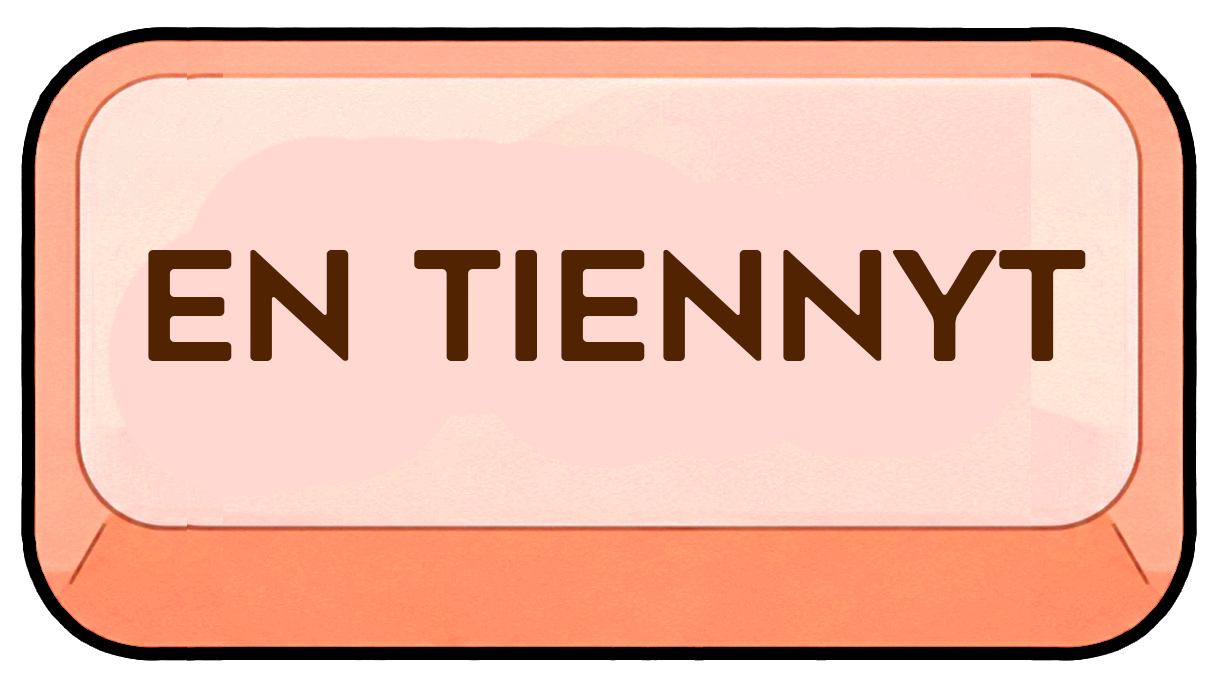
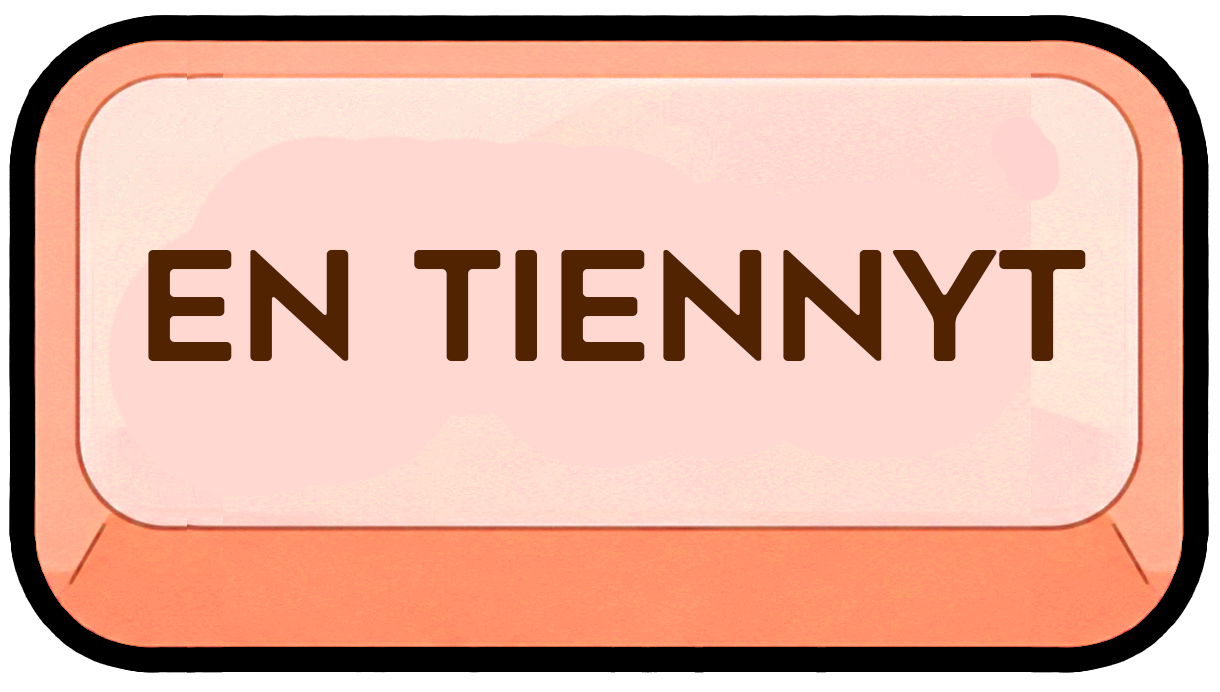
Kertausjono muistiin + uudet nappikuvat + 5 min -maininnat
- "En tiennyt" -kertausjono säilyy sivun uudelleenlatauksen yli
  (localStorage per pakka; poistuu myös Nollaa-napista)
- 5 min -maininta myös yhden vastauksen korteille
- yhtenäinen sanamäärä: "... vastauksen pituus X sanaa"
- osattu/kertaus-luku päivittyy 0,2 s ennen kortin vaihtumista
  (+ suoja tuplaklikkaukselle)
- uudet EDELLINEN/SEURAAVA-nappikuvat (1,76:1 kuten EN TIENNYT/TIESIN)
- napit mahtuvat nyt puhelimen näytölle; badget skaalautuvat

Changed region(s): [[0.0, 0.0, 0.9656, 0.9711], [0.9656, 0.1214, 0.9967, 0.8801]]

diff --git a/index.html b/index.html
@@ -314,7 +314,7 @@ body.is-mobile #card-screen.card-fs-on .card-content { font-size: 1.0125rem; }  
 #front-check { display: none; }
 #card-screen.card-fs-on #front-check.active { display: flex; align-items: flex-end; justify-content: center; gap: min(20px, 3.8vw); position: fixed; left: 50%; bottom: 4vh; transform: translateX(-50%); z-index: 96; max-width: 100vw; }   /* bottoms aligned so all three keycaps sit on the same line; scales down to fit narrow (mobile) screens */
 #card-screen.card-fs-on #progress-row { display: none !important; }   /* the old progress bar is never shown in fullscreen — the Tarkista button takes its place */
-.fc-nav { width: min(75px, 14vw, calc(100dvh / 7)); height: min(75px, 14vw, calc(100dvh / 7)); flex: 0 0 auto; border: none; background: none; padding: 0; cursor: pointer; transition: transform 0.1s ease; position: relative; touch-action: manipulation; }   /* side keycaps, same size as the backside Ei/Kyllä buttons; shrink on narrow screens; manipulation = no iOS tap delay */
+.fc-nav { width: min(132px, 21vw); height: min(75px, 12vw, calc(100dvh / 7)); flex: 0 0 auto; border: none; background: none; padding: 0; cursor: pointer; transition: transform 0.1s ease; position: relative; touch-action: manipulation; }   /* side keycaps, same size as the backside Ei/Kyllä buttons; shrink on narrow screens; manipulation = no iOS tap delay */
 .fc-nav img { width: 100%; height: 100%; object-fit: contain; display: block; filter: drop-shadow(0 3px 8px rgba(0,0,0,0.22)); }
 /* armed (>=125%): pulsing glow — release now to register. Front (Edellinen/Seuraava) = beige on both; back answer buttons = orange (Ei) / sage (Kyllä) */
 #front-check:not(.back) .fc-nav.fc-nav-armed img { animation: fcGlowBeige 0.85s ease-in-out infinite; }
@@ -339,7 +339,7 @@ body.is-mobile #card-screen.card-fs-on .card-content { font-size: 1.0125rem; }  
 #card-screen.card-fs-on button:focus, #card-screen.card-fs-on button:focus-visible { outline: none; }   /* no ugly rectangular Tab-focus box on the keycap buttons */
 .fc-nav:active { transform: translateY(2px) scale(0.95); }
 /* persistent right/wrong tally: a small badge on the grade thumbs, shown only in grade mode (#front-check.back) when the count > 0 */
-.grade-count { position: absolute; bottom: -6px; right: -6px; min-width: 40px; height: 40px; padding: 0 10px; border-radius: 20px; border: 2px solid rgba(0,0,0,0.55); font-family: 'Lora', serif; font-size: 1.48rem; line-height: 36px; text-align: center; color: #fff; box-shadow: 0 1px 5px rgba(0,0,0,0.4); z-index: 3; display: none; pointer-events: auto; cursor: default; }
+.grade-count { --gc: min(40px, 7.2vw); position: absolute; bottom: -6px; right: -6px; min-width: var(--gc); height: var(--gc); padding: 0 calc(var(--gc) / 4); border-radius: calc(var(--gc) / 2); border: 2px solid rgba(0,0,0,0.55); font-family: 'Lora', serif; font-size: calc(var(--gc) * 0.62); line-height: calc(var(--gc) - 4px); text-align: center; color: #fff; box-shadow: 0 1px 5px rgba(0,0,0,0.4); z-index: 3; display: none; pointer-events: auto; cursor: default; }
 #gc-nav-left[data-tip]:hover::after, #gc-nav-right[data-tip]:hover::after { content: attr(data-tip); position: absolute; bottom: calc(100% + 10px); left: 50%; transform: translateX(-50%); background: #3a312b; color: #fff; font-family: 'Lora', serif; font-size: 0.82rem; font-weight: 400; line-height: 1.2; padding: 6px 10px; border-radius: 8px; white-space: nowrap; box-shadow: 0 4px 14px rgba(0,0,0,0.3); z-index: 20; pointer-events: none; }
 #front-check.back #fc-nav-left  .grade-count.has,
 #front-check.back #fc-nav-right .grade-count.has { display: block; }
@@ -350,7 +350,7 @@ body.is-mobile #card-screen.card-fs-on .card-content { font-size: 1.0125rem; }  
 .grade-hint.show { opacity: 1; }
 .tarkista-wrap { position: relative; display: flex; flex-direction: column; align-items: center; }
 .tarkista-btn { position: relative; z-index: 3; display: block; width: auto; border: none; background: none; padding: 0; cursor: pointer; overflow: hidden; touch-action: manipulation; }
-.tarkista-btn img { height: min(75px, 14vw, calc(100dvh / 7)); width: auto; display: block; filter: drop-shadow(0 4px 10px rgba(0,0,0,0.3)); }   /* as tall as the backside Ei/Kyllä buttons; shrink on narrow screens */
+.tarkista-btn img { height: min(75px, 12vw, calc(100dvh / 7)); width: auto; display: block; filter: drop-shadow(0 4px 10px rgba(0,0,0,0.3)); }   /* as tall as the backside Ei/Kyllä buttons; shrink on narrow screens */
 .tarkista-btn .tk-back { display: none; }   /* front = TARKISTA; back = TIESITKÖ? */
 #front-check.back .tarkista-btn .tk-front { display: none; }
 #front-check.back .tarkista-btn .tk-back { display: block; }
@@ -1258,7 +1258,6 @@ body.dark-mode .cal-day.cal-today .cal-num { background:#5c8a6a; color:#fff; }
 .chat-wrap { display:flex; flex-direction:column; }
 .chat-body { min-height:0; max-height:62vh; overflow-y:auto; display:flex; flex-direction:column; justify-content:flex-end; padding-right:6px; }   /* greeting + messages sit just above the input */
 .chat-greet-row { display:flex; align-items:flex-end; justify-content:flex-start; gap:8px; margin:6px 0 14px; }
-#front-check.back .fc-nav { width: min(132px, 26vw) !important; }   /* grade state: widen the side buttons to fit the 1.8:1 En tiennyt / Tiesin images */
 .add-info-wrap { display:flex; flex-direction:column; align-items:center; }
 .add-info-bubble { position:relative; background:#fffef9; border:2px solid #d4cec4; border-radius:22px; padding:1rem 1.3rem; color:#56533c; box-shadow:0 6px 20px rgba(0,0,0,0.12); text-align:left; font-size:1.0rem; line-height:1.4; }
 .add-info-bubble::after { content:""; position:absolute; top:100%; left:50%; transform:translateX(-50%); border:14px solid transparent; border-top-color:#fffef9; margin-top:-2px; }
@@ -2509,16 +2508,16 @@ body.dark-mode .cal-ev { color:#241f1b; }
 
   <!-- fullscreen front: [Edellinen] [Tarkista button = progress fill + peeking Mona] [Seuraava] -->
   <div id="front-check">
-    <button class="fc-nav" id="fc-nav-left" onclick="frontNavLeft()" onmouseenter="showGradeHint(event,'En tiennyt')" onmousemove="moveGradeHint(event)" onmouseleave="hideGradeHint()"><img class="nav-front" src="edellinen.png" alt="Edellinen"><img class="nav-back" src="en_tiennyt.png" alt="En tiennyt"><span class="grade-count" id="gc-nav-left" onmouseenter="hideGradeHint()" onmousemove="event.stopPropagation();hideGradeHint()"></span></button>
+    <button class="fc-nav" id="fc-nav-left" onclick="frontNavLeft()" onmouseenter="showGradeHint(event,'pikanäppäin: vasen nuoli')" onmousemove="moveGradeHint(event)" onmouseleave="hideGradeHint()"><img class="nav-front" src="edellinen_new.png" alt="Edellinen"><img class="nav-back" src="en_tiennyt.png" alt="En tiennyt"><span class="grade-count" id="gc-nav-left" onmouseenter="hideGradeHint()" onmousemove="event.stopPropagation();hideGradeHint()"></span></button>
     <div class="tarkista-wrap">
       <div class="fc-bubble" id="fc-bubble"></div>
-      <button id="tarkista-btn" class="tarkista-btn" onclick="frontCheckReveal()" title="Tarkista (välilyönti)">
+      <button id="tarkista-btn" class="tarkista-btn" onclick="_revealedByKey=false;frontCheckReveal()" onmouseenter="showTarkistaHint(event)" onmousemove="moveGradeHint(event)" onmouseleave="hideGradeHint()">
         <img class="tk-front" src="tarkista_vastaus.png" alt="Tarkista vastaus">
         <img class="tk-back" src="tarkista_vastaus.png" alt="Tarkista vastaus">
         <div class="tarkista-fill" id="tarkista-fill"></div>
       </button>
     </div>
-    <button class="fc-nav" id="fc-nav-right" onclick="frontNavRight()" onmouseenter="showGradeHint(event,'Tiesin')" onmousemove="moveGradeHint(event)" onmouseleave="hideGradeHint()"><img class="nav-front" src="seuraava.png" alt="Seuraava"><img class="nav-back" src="tiesin.png" alt="Tiesin"><span class="grade-count" id="gc-nav-right" onmouseenter="hideGradeHint()" onmousemove="event.stopPropagation();hideGradeHint()"></span></button>
+    <button class="fc-nav" id="fc-nav-right" onclick="frontNavRight()" onmouseenter="showGradeHint(event,'pikanäppäin: oikea nuoli')" onmousemove="moveGradeHint(event)" onmouseleave="hideGradeHint()"><img class="nav-front" src="seuraava_new.png" alt="Seuraava"><img class="nav-back" src="tiesin.png" alt="Tiesin"><span class="grade-count" id="gc-nav-right" onmouseenter="hideGradeHint()" onmousemove="event.stopPropagation();hideGradeHint()"></span></button>
   </div>
   <div id="grade-hint" class="grade-hint"></div>
 
@@ -2613,6 +2612,19 @@ let groups = JSON.parse(localStorage.getItem('anki-groups') || JSON.stringify([
 ]));
 let groupMode = false;
 let queue=[];
+let _relearn=[];            // cards graded "En tiennyt": [{card, at}] — asked again once 5 min have passed
+const RELEARN_MS=5*60*1000;
+let _gradePending=false;    // a grade is showing its tally; ignore further clicks until the next card is up
+function _saveRelearn(){    // survives a reload: store card ids + due times, not the card objects
+  try{ localStorage.setItem('solukko-relearn-'+currentDeck, JSON.stringify(_relearn.map(e=>({id:e.card.cardId, at:e.at})))); }catch(e){}
+}
+function _loadRelearn(deckName){
+  _relearn=[];
+  try{
+    const raw=localStorage.getItem('solukko-relearn-'+deckName); if(!raw) return;
+    JSON.parse(raw).forEach(e=>{ const c=reviewCards.find(x=>String(x.cardId)===String(e.id)); if(c) _relearn.push({card:c, at:e.at}); });   // cards that no longer exist are dropped
+  }catch(e){ _relearn=[]; }
+}
 let reviewCards=[];
 let currentOverviewIndex=0;
 let cardGrades={};
@@ -2623,7 +2635,8 @@ let cardAnswerShown=false;
 let commentsUnsubscribe=null;
 let kuvaajatUnsubscribe=null;
 let _frontHintText='';   // "Vastauksen laajuus … · Klikkaa korttia" — shown in Mona's front bubble
-let _scopeText='';       // "Vastauksen laajuus … sanaa" — shown in the bottom-right study Mona's bubble
+let _scopeText='';
+let _revealedByKey=false;   // true only when the answer was revealed/toggled with the space bar (Mona then says "uudestaan")       // "Vastauksen laajuus … sanaa" — shown in the bottom-right study Mona's bubble
 
 
 // ════════════════════════════════════════════════════════════
@@ -3683,7 +3696,7 @@ async function startDeck(deckName, animate=true){   // animate=false (reload/dee
   if(!infos.length){ alert('Tässä pakassa ei ole kortteja.'); show('deck-screen'); hide('loading'); return; }
   _deckIntro = infos.find(c=>getField(c,['Front','front','Kysymys','kysymys','Question','question']).replace(/<[^>]*>/g,'').trim().toLowerCase()==='esittely') || null;   // the card whose Front/Kysymys is "Esittely" becomes the deck cover
   reviewCards = _deckIntro ? infos.filter(c=>c!==_deckIntro) : infos;   // the intro card is a cover, not a study card
-  queue = reviewCards.slice();
+  queue = reviewCards.slice(); _loadRelearn(deckName);   // pick up cards still waiting to be re-asked from an earlier session
   shuffleMode=false; _reviewCardsOriginal=null; document.getElementById('shuffle-btn')?.classList.remove('active'); updateShuffleToggleBtn();
   deckGroups=buildDeckGroups(reviewCards,deckName);
   buildWordLinks();
@@ -3949,8 +3962,8 @@ function shuffleDeck(){
 
 // Card-grid tools (under the overview grid in review mode)
 function resetDeckProgress(){   // mark every card "new" again
-  cardGrades={};
-  try{ localStorage.removeItem('solukko-grades-'+currentDeck); }catch(e){}
+  cardGrades={}; _relearn=[];
+  try{ localStorage.removeItem('solukko-grades-'+currentDeck); localStorage.removeItem('solukko-relearn-'+currentDeck); }catch(e){}
   _celebratedDeck=false;
   updateProgress();
   renderCardOverview();
@@ -4342,6 +4355,10 @@ function resetComment(){   // each new card starts centred with comments closed
 }
 
 async function nextCard(){
+  let ri=_relearn.findIndex(e=>e.at<=Date.now());                                  // a card whose 5 min are up jumps the queue
+  if(ri<0 && !queue.length && _relearn.length)                                     // deck ran out first: ask the one that has waited longest
+    ri=_relearn.reduce((b,e,k,a)=>a[k].at<a[b].at?k:b,0);
+  if(ri>=0){ stopMonaNotes(); currentCard=_relearn.splice(ri,1)[0].card; _saveRelearn(); currentOverviewIndex=reviewCards.indexOf(currentCard); await renderCurrentCard(); return; }
   if(!queue.length){ exitCardFs(); showDeckLanding(); return; }   // deck done: no auto-celebration — drop to the grid where the celebration card is clickable
   stopMonaNotes();
   currentCard=queue.shift();
@@ -4655,7 +4672,7 @@ function listenToGameState(){
   });
 }
 
-function handleShowButton(){ showAnswer(); }
+function handleShowButton(){ _revealedByKey=false; showAnswer(); }
 function updateShowBtn(){ const btn=document.getElementById('show-btn'); if(btn){ btn.textContent='Tarkista'; btn.style.background=''; } }
 
 function buzzIn(){
@@ -5097,7 +5114,7 @@ function _laajuusTextForHtml(html, prefix){   // "… laajuus …" for a given a
   prefix = prefix || 'Vastauksen';
   const w=_wordCountOfHtml(html);
   if(!w) return '';
-  return prefix+' laajuus '+_sanamaara(w)+' sanaa';
+  return prefix+' pituus '+_sanamaara(w)+' sanaa';
 }
 function _applyAnswerMode(){   // swap the answer text + the middle button image + Mona's word count to match the current Suppea/Laaja mode
   if(!currentCard||!currentCard._hasSuppea) return;
@@ -5106,10 +5123,10 @@ function _applyAnswerMode(){   // swap the answer text + the middle button image
   const tkb=document.querySelector('#tarkista-btn .tk-back'); if(tkb) tkb.src=(_answerMode==='suppea')?'suppea_vastaus.png':'laaja_vastaus.png';
   // Mona's bubble: on the Suppea side she points to the Laaja answer (and its length); on the Laaja side just its length
   { const _w=_wordCountOfHtml(currentCard._laajaHtml);
-    const _cnt=_w?(' Laajan vastauksen sanamäärä on '+_sanamaara(_w)+'.'):'';
+    const _cnt=_w?(' Laajemman vastauksen pituus '+_sanamaara(_w)+' sanaa.'):'';
     _scopeText=(_answerMode==='suppea')
-      ? ('Näytä <b>laaja vastaus</b> painamalla välilyöntiä uudestaan.'+_cnt)
-      : _cnt.trim();
+      ? ('Näytä <b>laajempi vastaus</b> painamalla välilyöntiä'+(_revealedByKey?' uudestaan':'')+'.'+_cnt)   // "uudestaan" only if they got here with the space bar
+      : ('Jos valitset <b>"En tiennyt"</b>, kysyn sitä 5 min kuluttua uudestaan.'+_cnt);   // nothing left to reveal — tell them what grading does
   }
   if(typeof updateScopeMona==='function') updateScopeMona();
 }
@@ -5148,7 +5165,7 @@ function showAnswer(){
     else if(currentCard && currentCard._singleAnswer){                                        // only one answer written: no toggle to offer
       const _tkb=document.querySelector('#tarkista-btn .tk-back'); if(_tkb) _tkb.src='suppea_vastaus.png';
       const _tb=document.getElementById('tarkista-btn'); if(_tb) _tb.classList.add('tk-disabled');   // greyed out = not clickable
-      _scopeText='Tähän kysymykseen ei ole laajempaa vastausta.'; if(typeof updateScopeMona==='function') updateScopeMona();
+      _scopeText='Tähän kysymykseen ei ole laajempaa vastausta. Jos valitset <b>"En tiennyt"</b>, kysyn sitä 5 min kuluttua uudestaan.'; if(typeof updateScopeMona==='function') updateScopeMona();
     }
   };
   clearTimeout(_cardPeekTimer); clearTimeout(_laajuusTimer);   // don't pop the top peeker in mid-flip
@@ -5196,6 +5213,14 @@ let _celebratedDeck=false;   // auto-show the celebration only once per deck ses
 function showGradeHint(e,txt){ const fc=document.getElementById('front-check'); if(!fc||!fc.classList.contains('back')) return; const h=document.getElementById('grade-hint'); if(!h) return; h.textContent=txt; h.classList.add('show'); moveGradeHint(e); }
 function moveGradeHint(e){ const h=document.getElementById('grade-hint'); if(!h||!h.classList.contains('show')) return; h.style.left=(e.clientX+14)+'px'; h.style.top=(e.clientY+16)+'px'; }
 function hideGradeHint(){ const h=document.getElementById('grade-hint'); if(h) h.classList.remove('show'); }
+function showTarkistaHint(e){   // middle button: says what pressing it does right now (front: the shortcut · back: which answer it switches to)
+  const t = (!cardAnswerShown) ? 'pikanäppäin: välilyönti'
+          : (currentCard && currentCard._hasSuppea) ? (_answerMode==='suppea' ? 'Näytä laaja vastaus' : 'Näytä suppea vastaus')
+          : '';   // single-answer cards: the button is greyed out, no hint
+  if(!t) return;
+  const h=document.getElementById('grade-hint'); if(!h) return;
+  h.textContent=t; h.classList.add('show'); moveGradeHint(e);
+}
 function updateGradeCounts(){   // persistent per-deck tally: known -> Tiesin thumb, unknown -> En tiennyt thumb
   let known=0,unknown=0;
   for(const k in cardGrades){ const v=cardGrades[k]; if(v==='known') known++; else if(v==='unknown') unknown++; }
@@ -5205,13 +5230,14 @@ function updateGradeCounts(){   // persistent per-deck tally: known -> Tiesin th
   if(wr){ wr.textContent=known; wr.classList.toggle('has', known>0); wr.dataset.tip = (known===1?'1 kortti osattu':known+' korttia osattu'); }
 }
 function gradeCard(correct){
-  if(coinAnimating) return;
+  if(coinAnimating||_gradePending) return;   // don't let a second click during the 0.2 s hold skip a card
   if(currentCard){ cardGrades[currentCard.cardId]=correct?'known':'unknown'; renderCardOverview(); updateProgress(); localStorage.setItem('solukko-grades-'+currentDeck,JSON.stringify(cardGrades)); updateGradeCounts(); }
   if(!correct){ _celebratedDeck=false; }   // marking a card "unknown" re-arms the celebration, so re-completing the deck shows it again
   const _allKnownNow = correct && reviewCards.length>0 && reviewCards.every(c=>cardGrades[c.cardId]==='known');   // did this "known" complete the deck?
   const fc=document.getElementById('flashcard');
   const ov=document.getElementById('card-overlay');
   const doNext=()=>{
+    _gradePending=false;
     fc.classList.remove('card-out-left','card-out-right','card-out-up');
     if(ov){ ov.style.transition='none'; ov.style.opacity='0'; }
     // deck completion no longer auto-plays the celebration; the celebration card in the grid (CELEB_GRID_HTML, onclick=showCelebration) is the manual trigger
@@ -5221,7 +5247,9 @@ function gradeCard(correct){
       animateCoinToGroup(wg,()=>{ groups[wg].score+=1; saveGroups(); updateGroupUI(); bounceWinningGroup(wg); setTimeout(()=>{ coinAnimating=false; selectedGroup=null; updateGroupUI(); nextCard(); },450); });
       return;
     }
-    if(!correct){ queue.splice(Math.min(10,queue.length),0,currentCard); }
+    if(currentCard) _relearn=_relearn.filter(e=>e.card!==currentCard);          // re-grading clears any pending slot for this card
+    if(!correct&&currentCard) _relearn.push({card:currentCard, at:Date.now()+RELEARN_MS});   // "En tiennyt": ask again in 5 min
+    _saveRelearn();
     selectedGroup=null; updateGroupUI(); nextCard();
   };
   const flyOut=()=>{                                  // only the card flies up; bar stays pinned at bottom
@@ -5232,11 +5260,11 @@ function gradeCard(correct){
     fc.style.animation=''; fc.classList.add('card-out-left');
     setTimeout(doNext,280);
   };
-  if(_gradeInstant){                                  // click flow: no fly-out, no fade-in — swap to the new card at once
-    _gradeInstant=false; _skipCardFade=true;
+  if(_gradeInstant){                                  // click flow: no fly-out, no fade-in — swap to the new card
+    _gradeInstant=false; _skipCardFade=true; _gradePending=true;
     fc.classList.remove('card-in-right','card-in-left','card-out-left','card-out-right','card-out-up');
     fc.style.transition='none'; fc.style.transform=''; fc.style.animation='none';
-    doNext();
+    setTimeout(doNext,200);                           // hold 0.2 s so the Osattu/Kertaus badge is seen ticking up
     return;
   }
   if(correct){                                        // "yes": glow the bar (no green card), then fly out
@@ -6123,7 +6151,7 @@ window.addEventListener('popstate',e=>{ if(document.getElementById('card-screen'
     const _tapNow=Date.now();
     if(_tapNow-_lastFsCardTap<320){ _lastFsCardTap=0; exitCardFullscreen(); return; }   // double-tap the card → leave fullscreen
     _lastFsCardTap=_tapNow;
-    if(!cardAnswerShown){ showAnswer(); return; }          // front: tapping the card reveals the answer
+    if(!cardAnswerShown){ _revealedByKey=false; showAnswer(); return; }          // front: tapping the card reveals the answer
     if(Date.now()-pressT<=400) shakeCard();                // back: tapping the card only shakes (silent) — no flip, no sound; only the Tarkista button/space flips back to the front
   });
 
@@ -6140,8 +6168,8 @@ window.addEventListener('popstate',e=>{ if(document.getElementById('card-screen'
       e.preventDefault();
       if(e.key==='ArrowRight') frontNavRight(); else frontNavLeft();   // front: Seuraava/Edellinen · back: Kyllä/Ei — with the keycap dip + sound
     }
-    if((e.key===' '||e.key==='ArrowUp'||e.key==='ArrowDown')&&currentCard){ e.preventDefault(); frontCheckReveal(); }   // space / up / down = press Tarkista: reveal on the front, flip back to the front from the back
-    else if(e.key==='Enter'&&!cardAnswerShown&&currentCard){ e.preventDefault(); showAnswer(); }
+    if((e.key===' '||e.key==='ArrowUp'||e.key==='ArrowDown')&&currentCard){ e.preventDefault(); _revealedByKey=(e.key===' '); frontCheckReveal(); }   // space / up / down = press Tarkista: reveal on the front, flip back to the front from the back
+    else if(e.key==='Enter'&&!cardAnswerShown&&currentCard){ e.preventDefault(); _revealedByKey=false; showAnswer(); }
   });
 })();
 
